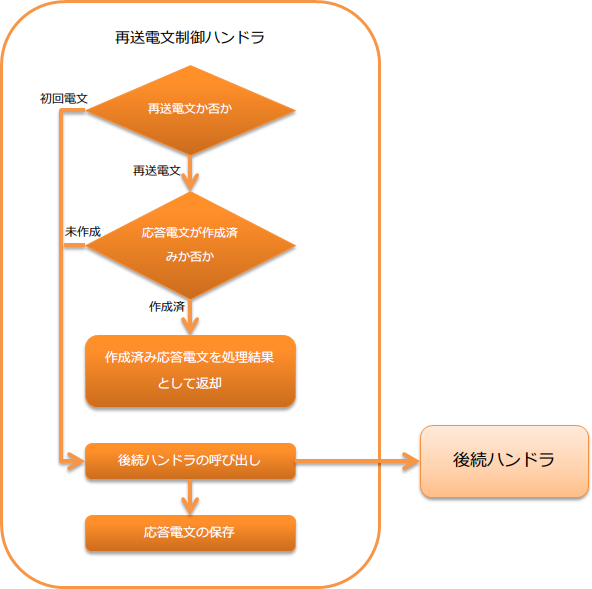
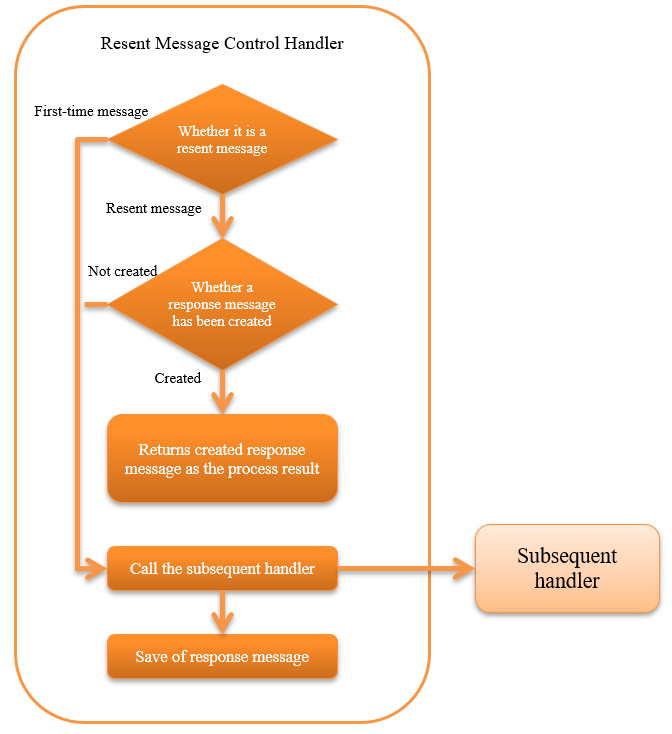
MOMメッセージング専用ハンドラを英訳化

diff --git a/en/application_framework/application_framework/handlers/mom_messaging/message_resend_handler.rst b/en/application_framework/application_framework/handlers/mom_messaging/message_resend_handler.rst
@@ -1,40 +1,40 @@
 .. _message_resend_handler:
 
-再送電文制御ハンドラ
+Resent Message Control Handler
 ==================================================
-.. contents:: 目次
+.. contents:: Table of contents
   :depth: 3
   :local:
 
-本ハンドラでは、同一の電文を繰り返し受信した際の再送制御を行う。
+This handler resends control when the same message is received repeatedly.
 
-具体的には、同一の電文を繰り返し受信した際に、その電文に対する処理が終わっているかどうか(応答電文が作成されているかどうか)を判断する。
-もし、既に処理が終わっていた場合(応答電文が作成されていた場合)には、業務処理を再度行うのではなく作成済みの応答電文を自動的に送信する。
+Specifically, when the same message is received repeatedly, it determines whether the processing for the message has been completed (whether a response message has been created). 
+If the process has already been completed (if a response message has been created), the created response message is automatically sent instead of repeating the business process.
 
-同一電文かの判定方法は :ref:`message_resend_handler-resent_message` を参照。
+Refer to  :ref:`message_resend_handler-resent_message`  for the method to determine whether the message is the same.
 
 .. tip::
-  本ハンドラを適用するメリットは以下のとおり。
+  The advantages of applying this handler are as below:
 
-  * 既に応答電文が作成済みの場合、業務処理が省略出来るため、システム負荷を低減できる。
-  * データベースへの登録を行う処理の場合に、業務処理を省略できるため2重取り込みの防止ロジックなどを実装する必要がない。
+  * If a response message has already been created, the system load can be reduced as the business process is omitted.
+  * In the case of the registration process to the database, a logic for preventing double capture is not required as the business process is omitted.
 
-本ハンドラでは、以下の処理を行う。
+This handler performs the following processes:
 
-* 応答電文の保存処理
-* 再送電文の場合は、保存した応答電文の送信処理
-* 再送電文以外及び保存済み応答電文がない場合は、後続ハンドラへの処理の委譲
+* Save process of the response message
+* In the case of resent messages, send process of the saved response message
+* In the case of other than resent message and stored resend message is not available, delegates processing to the subsequent handler
 
-処理の流れは以下のとおり。
+The process flow is as follows.
 
 .. image:: ../images/MessageResendHandler/flow.png
   :scale: 75
   
-ハンドラクラス名
+Handler class name
 --------------------------------------------------
 * :java:extdoc:`nablarch.fw.messaging.handler.MessageResendHandler`
 
-モジュール一覧
+Module list
 --------------------------------------------------
 .. code-block:: xml
 
@@ -43,97 +43,95 @@
     <artifactId>nablarch-fw-messaging</artifactId>
   </dependency>
 
-制約
+Constraints
 ------------------------------
-:ref:`message_reply_handler` よりも後ろに設定すること
-  本ハンドラで作成した応答電文を送信する必要がある。
-  このため、電文を送信するための :ref:`message_reply_handler` よりも後ろに本ハンドラを設定する必要がある。
+Configure this handler after the :ref:`message_reply_handler` .
+  It is necessary to send the response message created by this handler. 
+  Therefore it is necessary to configure this handler after  :ref:`message_reply_handler` , which sends the message.
 
-:ref:`transaction_management_handler` よりも後ろに設定すること
-  本ハンドラでは、応答電文をデータベースに保存する。
-  このため、データベースへのトランザクション制御を実現する :ref:`transaction_management_handler` よりも後ろに本ハンドラを設定する必要がある。
+Configure this handler after the :ref:`transaction_management_handler` .
+  This handler saves the response message in the database. 
+  Therefore it is necessary to configure this handler after the  :ref:`transaction_management_handler` , which realizes transaction control for the database.
 
-
-応答電文の保存先について
+Save destination of response message
 --------------------------------------------------
-後続ハンドラで作成された応答電文は、データベース上のテーブルに格納する。
-このため、予め応答電文の保存用テーブルを作成しておく必要がある。
+The response message created in the subsequent handler is stored in the table on the database. 
+Therefore, the storage table for response messages has to be prepared in advance.
 
-応答電文を格納するテーブルの定義は以下の通り。
-デフォルトのテーブル名や物理名の値は、 :java:extdoc:`SentMessageTableSchema <nablarch.fw.messaging.tableschema.SentMessageTableSchema>` を参照。
+The definition of the table that stores the response message is as below. 
+For default table name or value of physical name, see  :java:extdoc:`SentMessageTableSchema <nablarch.fw.messaging.tableschema.SentMessageTableSchema>` .
 
 .. list-table::
   :header-rows: 1
   :class: white-space-normal
   :widths: 30 30 40
 
-  * - カラム名
-    - 制約等
-    - 格納する値
+  * - Column name
+    - Constraints
+    - Stored value
 
-  * - リクエストID
-    - 主キー |br| 文字列型
-    - 要求電文のリクエストID
+  * - Request ID
+    - Primary key |br| String type
+    - Request ID of request message
 
-  * - メッセージID
-    - 主キー |br| 文字列型
-    - 要求電文のメッセージID
+  * - Message ID
+    - Primary key |br| String type
+    - Message ID of request message
 
-      再送電文の場合には、メッセージIDではなく相関メッセージIDを使用する。
+      In the case of a resent message, instead of the message ID use the correlation message ID.
 
-      詳細は、 :ref:`message_resend_handler-resent_message` を参照
+      For details, see :ref:`message_resend_handler-resent_message` .
 
-  * - 宛先キューの論理名
-    - 文字列型
-    - 応答電文を送信するための宛先キューの論理名 |br|
+  * - Logical name of the destination queue
+    - String type
+    - Logical name of the destination queue for sending response message |br|
       (:java:extdoc:`InterSystemMessage#getDestination() <nablarch.fw.messaging.InterSystemMessage.getDestination()>`)
 
-  * - 処理結果コード
-    - 文字列型
-    - 応答電文の処理結果コード |br| 
+  * - Process result code
+    - String type
+    - Process result code of the response message: |br| 
       (:java:extdoc:`ResponseMessage#getStatusCode() <nablarch.fw.messaging.ResponseMessage.getStatusCode()>`)
 
-  * - 応答電文
-    - バイナリ型
-    - 応答電文の内容 |br|
+  * - Response message
+    - Binary type
+    - Response message contents |br|
       (:java:extdoc:`ResponseMessage#getBodyBytes() <nablarch.fw.messaging.ResponseMessage.getBodyBytes()>`)
 
-デフォルトのテーブル名やカラム名を変更したい場合には、設定により変更することができる。
-詳細は、 :java:extdoc:`SentMessageTableSchema <nablarch.fw.messaging.tableschema.SentMessageTableSchema>` 及び
-:java:extdoc:`sentMessageTableSchemaプロパティ <nablarch.fw.messaging.handler.MessageResendHandler.setSentMessageTableSchema(nablarch.fw.messaging.tableschema.SentMessageTableSchema)>` を参照。
+The default table name or column name can be changed with configuration.
+For details, see :java:extdoc:`SentMessageTableSchema <nablarch.fw.messaging.tableschema.SentMessageTableSchema>`  and :java:extdoc:`sentMessageTableSchema property <nablarch.fw.messaging.handler.MessageResendHandler.setSentMessageTableSchema(nablarch.fw.messaging.tableschema.SentMessageTableSchema)>` .
 
 .. _message_resend_handler-resent_message:
 
-同一電文(再送電文)の判定方法
---------------------------------------------------
-本ハンドラが受信した電文が以下の条件を満たす場合、既に処理済みの要求電文を受信したと判断し、保存した応答電文を処理結果として返却する。
+How to determine if it is the same message (resent message)
+---------------------------------------------------------------------
+If the message received by this handler satisfies the below conditions, it is determined that the request message received has already been processed and returns the saved response message as the process result.
 
-* フレームワーク制御ヘッダの再送要求フラグに値が設定されている
-* 受信した要求電文のリクエストIDとメッセージIDに紐づくデータが、応答電文を保存したテーブルに存在している
+* A value is configured in the resent request flag of the framework control header
+* Data associated with the request ID and message ID of the request messages received is present in the table that stores the response message
 
-フレームワーク制御ヘッダの詳細は、 :ref:`フレームワーク制御ヘッダ <mom_system_messaging-fw_header>` を参照。
+For details of the framework control header, see :ref:`framework control header <mom_system_messaging-fw_header>` .
 
 .. important::
 
-  相手先システムが要求電文を再送する際には、以下の制約を満たす必要がある。
-  この制約を満たせない場合、本ハンドラを利用することはできないので、プロジェクト側で再送制御を実現するハンドラを新たに作成する必要がある。
+  The following conditions must be satisfied when the partner system sends the request message. 
+  The handler cannot be used if this constraint is not satisfied, and a new handler must be created to implement resent control in the project.
 
-  * 再送電文の相関メッセージIDには、初回送信時の要求電文のメッセージIDを設定すること
-  * フレームワーク制御ヘッダの再送要求フラグに値を設定すること
+  * Configure the message ID of the request message used during the first send as the correlation message ID of the resent message
+  * Configure a value in the resent request flag of the framework control header
 
-フレームワーク制御ヘッダの設定
+Configuring the framework control header
 --------------------------------------------------
-応答電文内のフレームワーク制御ヘッダの定義を変更する場合には、プロジェクトで拡張したフレームワーク制御ヘッダの定義を設定する必要がある。
-設定を行わない場合は、デフォルトの :java:extdoc:`StandardFwHeaderDefinition <nablarch.fw.messaging.StandardFwHeaderDefinition>` が使用される。
+When changing the definition of the framework control header in the response message, the definition of the framework control header extended in the project has to be configured. 
+If it is not configured, the default :java:extdoc:`StandardFwHeaderDefinition <nablarch.fw.messaging.StandardFwHeaderDefinition>`  will be used.
 
-フレームワーク制御ヘッダの詳細は、 :ref:`フレームワーク制御ヘッダ <mom_system_messaging-fw_header>` を参照。
+For details of the framework control header, see  :ref:`framework control header <mom_system_messaging-fw_header>` .
 
-以下に設定例を示す。
+A configuration example is shown below.
 
 .. code-block:: xml
 
   <component class="nablarch.fw.messaging.handler.MessageResendHandler">
-    <!-- フレームワーク制御ヘッダの設定 -->
+    <!-- Configuring the framework control header -->
     <property name="fwHeaderDefinition">
       <component class="sample.SampleFwHeaderDefinition" />
     </property>

diff --git a/en/application_framework/application_framework/handlers/mom_messaging/message_reply_handler.rst b/en/application_framework/application_framework/handlers/mom_messaging/message_reply_handler.rst
@@ -1,28 +1,28 @@
 .. _message_reply_handler:
 
-電文応答制御ハンドラ
+Message Response Control Handler
 ==================================================
-.. contents:: 目次
+.. contents:: Table of contents
   :depth: 3
   :local:
 
-本ハンドラでは、後続ハンドラの処理結果である :java:extdoc:`ResponseMessage <nablarch.fw.messaging.ResponseMessage>` オブジェクトの内容をもとに、
-応答電文を作成し接続先システムに返却(送信)する。
+This handler creates a response message and returns (sends) it to the connection destination based on the results of the  :java:extdoc:`ResponseMessage <nablarch.fw.messaging.ResponseMessage>` object, 
+which is the processing result of the subsequent handler.
 
-本ハンドラでは、以下の処理を行う。
+This handler performs the following process:
 
-* 応答電文の送信処理を行う
+* Sends the response message
 
-処理の流れは以下のとおり。
+The process flow is as follows.
 
 .. image:: ../images/MessageReplyHandler/flow.png
   :scale: 75
   
-ハンドラクラス名
+Handler class name
 --------------------------------------------------
 * :java:extdoc:`nablarch.fw.messaging.handler.MessageReplyHandler`
 
-モジュール一覧
+Module list
 --------------------------------------------------
 .. code-block:: xml
 
@@ -31,36 +31,36 @@
     <artifactId>nablarch-fw-messaging</artifactId>
   </dependency>
 
-制約
+Constraints
 ------------------------------
-:ref:`messaging_context_handler` よりも後ろに設定すること
-  本ハンドラは、応答電文を送信(メッセージキューへのプット)する。
-  このため、MQへの接続を確立する :ref:`messaging_context_handler` より後ろに本ハンドラを設定する必要がある。
+Configure this handler after the :ref:`messaging_context_handler` 
+  This handler sends the response message (puts to the message queue) Therefore it is necessary to configure this handler after  :ref:`messaging_context_handler` , 
+  which establishes a connection to MQ.
 
-:ref:`transaction_management_handler` との位置関係について
-  :ref:`transaction_management_handler` との位置関係は、2相コミットを使用するか否かで変わる。
+Positional relationship with the :ref:`transaction_management_handler` 
+  The positional relationship with :ref:`transaction_management_handler`  changes depending on whether a two-phase commit is used.
 
-  2相コミットを使用する場合
-    データベースのトランザクションとメッセージキュー(JMS)のトランザクションを、トランザクションマネージャで纏めてコミットする。
-    このため、トランザクション制御前に応答電文を送信する必要があり、 :ref:`transaction_management_handler` より後ろに本ハンドラを設定する必要がある。
+  Two-phase commit is used
+    Collates and commits the database transaction and message queue (JMS) transaction together in the transaction manager. 
+    Therefore, a response message is required to be sent before the transaction control, and this handler has to be configured after the :ref:`transaction_management_handler` .
 
-  2相コミットを使用しない場合
-    本ハンドラが応答を送信する前に業務処理の結果を確定させる必要がある。
-    このため、 :ref:`transaction_management_handler` は、本ハンドラより後ろに設定する必要がある。
+  Two-phase commit is not used
+    It is necessary to determine the result of the business process before this handler sends a response. 
+    Therefore, the  :ref:`transaction_management_handler` must be configured after this handler.
 
-フレームワーク制御ヘッダの設定
+Configuring the framework control header
 --------------------------------------------------
-応答電文内のフレームワーク制御ヘッダの定義を変更する場合には、プロジェクトで拡張したフレームワーク制御ヘッダの定義を設定する必要がある。
-設定を行わない場合は、デフォルトの :java:extdoc:`StandardFwHeaderDefinition <nablarch.fw.messaging.StandardFwHeaderDefinition>` が使用される。
+When changing the definition of the framework control header in the response message, the definition of the framework control header extended in the project has to be configured. 
+If it is not configured, the default  :java:extdoc:`StandardFwHeaderDefinition <nablarch.fw.messaging.StandardFwHeaderDefinition>`  will be used.
 
-フレームワーク制御ヘッダの詳細は、 :ref:`フレームワーク制御ヘッダ <mom_system_messaging-fw_header>` を参照。
+For details of the framework control header, see  :ref:`framework control header <mom_system_messaging-fw_header>` .
 
-以下に設定例を示す。
+A configuration example is shown below.
 
 .. code-block:: xml
 
   <component class="nablarch.fw.messaging.handler.MessageReplyHandler">
-    <!-- フレームワーク制御ヘッダの設定 -->
+    <!-- Configuring the framework control header -->
     <property name="fwHeaderDefinition">
       <component class="sample.SampleFwHeaderDefinition" />
     </property>

diff --git a/en/application_framework/application_framework/handlers/mom_messaging/messaging_context_handler.rst b/en/application_framework/application_framework/handlers/mom_messaging/messaging_context_handler.rst
@@ -1,30 +1,30 @@
 .. _messaging_context_handler:
 
-メッセージングコンテキスト管理ハンドラ
+Messaging Context Management Handler
 ==================================================
 
-.. contents:: 目次
+.. contents:: Table of contents
   :depth: 3
   :local:
 
-後続のハンドラ及びライブラリで使用するためのMQ接続を、スレッド上で管理するハンドラ。
+This handler manages the MQ connection on the thread for use by the subsequent handler and library.
 
-MOMメッセージングの詳細は、 :ref:`system_messaging` を参照。
+For details of MOM messaging, see  :ref:`system_messaging` .
 
-本ハンドラでは、以下の処理を行う。
+This handler performs the following processes.
 
-* MQ接続の取得
-* MQ接続の解放
+* Gets MQ connection
+* Releases MQ connection
 
-処理の流れは以下のとおり。
+The process flow is as follows.
 
 .. image:: ../images/MessagingContextHandler/MessagingContextHandler_flow.png
 
-ハンドラクラス名
+Handler class name
 --------------------------------------------------
 * :java:extdoc:`nablarch.fw.messaging.handler.MessagingContextHandler`
 
-モジュール一覧
+Module list
 --------------------------------------------------
 .. code-block:: xml
 
@@ -33,28 +33,26 @@ MOMメッセージングの詳細は、 :ref:`system_messaging` を参照。
     <artifactId>nablarch-fw-messaging</artifactId>
   </dependency>
 
-制約
+Constraints
 ------------------------------
-なし。
+None.
 
-MQの接続先の設定を行う
+Configure the connection destination of MQ
 --------------------------------------------------
-このハンドラは、 :java:extdoc:`messagingProvider <nablarch.fw.messaging.handler.MessagingContextHandler.setMessagingProvider(nablarch.fw.messaging.MessagingProvider)>`
-プロパティに設定されたプロバイダクラス( :java:extdoc:`MessagingProvider <nablarch.fw.messaging.MessagingProvider>` 実装クラス)を使用してMQ接続を取得する。
+This handler acquires the MQ connection using the provider class (  :java:extdoc:`MessagingProvider <nablarch.fw.messaging.MessagingProvider>` implementation class) configured in the  :java:extdoc:`messagingProvider <nablarch.fw.messaging.handler.MessagingContextHandler.setMessagingProvider(nablarch.fw.messaging.MessagingProvider)>` property.
 
-以下に設定例を示す。
-プロバイダクラスの設定内容については、使用する
-:java:extdoc:`MessagingProvider <nablarch.fw.messaging.MessagingProvider>` 実装クラスのJavadocを参照。
+A configuration example is shown below. 
+For the configuration contents of provider class, refer to Javadoc of the implementation class :java:extdoc:`MessagingProvider <nablarch.fw.messaging.MessagingProvider>` .
 
 .. code-block:: xml
 
- <!-- メッセージコンテキスト管理ハンドラ -->
+ <!-- Message context management handler-->
  <component class="nablarch.fw.messaging.handler.MessagingContextHandler">
    <property name="messagingProvider" ref="messagingProvider" />
  </component>
 
- <!-- プロバイダクラス -->
+ <!-- Provider class -->
  <component name="messagingProvider"
      class="nablarch.fw.messaging.provider.JmsMessagingProvider">
-   <!-- プロパティの設定は省略 -->
+   <!-- Property configuration is omitted -->
  </component>

diff --git a/en/application_framework/application_framework/handlers/mom_messaging/index.rst b/en/application_framework/application_framework/handlers/mom_messaging/index.rst
@@ -1,4 +1,4 @@
-MOMメッセージング専用ハンドラ
+MOM Messaging Dedicated Handler
 ==================================================
 
  .. toctree::
